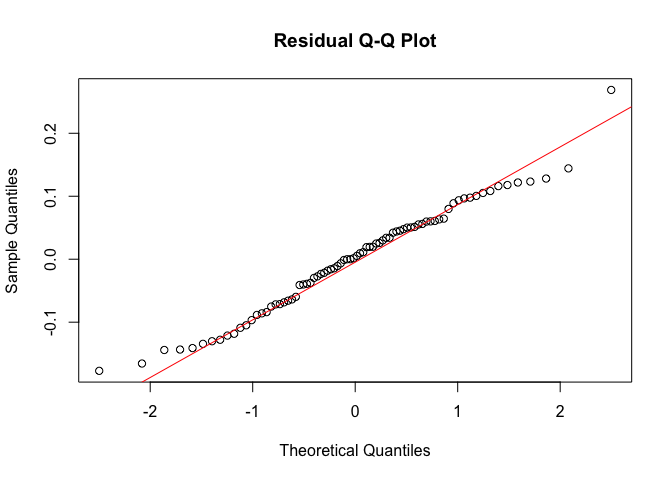
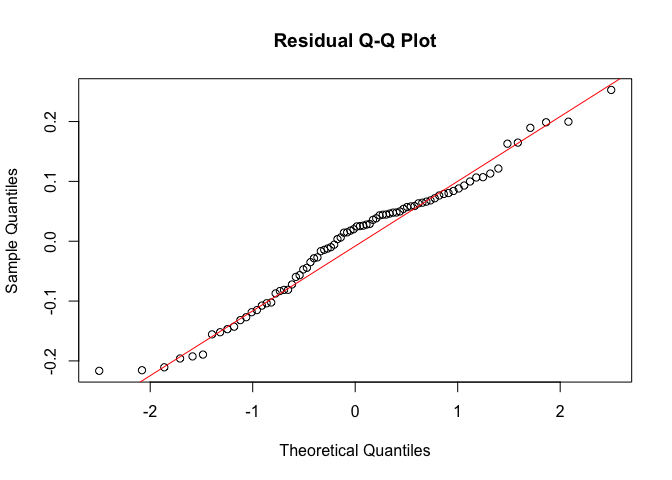
fix the equation formatting

diff --git a/01-plan/01-pre-registration/03-analysis-plan.md b/01-plan/01-pre-registration/03-analysis-plan.md
@@ -42,9 +42,13 @@ Based on this experimental design, we will use the following linear
 model to analyse this experiment:
 
 $$
+\begin{aligned}
 log(L_{i}) = \alpha + \beta_1\text{N}_{i} + \beta_2\text{M}_{i} + \beta_3\text{N}_{i}\text{M}_{i} + \epsilon_{i}
+\end{aligned}
 $$ $$
+\begin{aligned}
 \epsilon_{i} \sim Normal(0, \sigma_{residual})
+\end{aligned}
 $$ Based on this model, we can set-up the statistical hypotheses as
 follows:
 
@@ -118,12 +122,12 @@ head(dat_e1)
     # A tibble: 6 × 5
           N     M     L N_trans L_log
       <dbl> <dbl> <dbl>   <dbl> <dbl>
-    1  1.39     0  4.18       0  1.43
-    2  1.39     0  4.67       0  1.54
-    3  1.39     0  4.47       0  1.50
-    4  1.39     0  4.55       0  1.52
-    5  1.39     0  4.52       0  1.51
-    6  1.39     0  4.38       0  1.48
+    1  1.39     0  4.62       0  1.53
+    2  1.39     0  4.92       0  1.59
+    3  1.39     0  3.67       0  1.30
+    4  1.39     0  4.91       0  1.59
+    5  1.39     0  4.56       0  1.52
+    6  1.39     0  4.74       0  1.56
 
 Now we are ready to fit the model:
 
@@ -180,21 +184,21 @@ summary(lm_e1)
     lm(formula = L_log ~ M + N_trans + M:N_trans, data = dat_e1)
 
     Residuals:
-          Min        1Q    Median        3Q       Max 
-    -0.177269 -0.066524  0.003349  0.056957  0.268788 
+         Min       1Q   Median       3Q      Max 
+    -0.21661 -0.08118  0.02234  0.06484  0.25279 
 
     Coefficients:
                 Estimate Std. Error t value Pr(>|t|)    
-    (Intercept)  1.51533    0.02404  63.034  < 2e-16 ***
-    M           -0.16333    0.03400  -4.804 7.64e-06 ***
-    N_trans      0.19669    0.01416  13.891  < 2e-16 ***
-    M:N_trans   -0.06654    0.02002  -3.323  0.00137 ** 
+    (Intercept)  1.51180    0.02935  51.516  < 2e-16 ***
+    M           -0.16401    0.04150  -3.952 0.000172 ***
+    N_trans      0.21225    0.01728  12.280  < 2e-16 ***
+    M:N_trans   -0.09241    0.02444  -3.781 0.000309 ***
     ---
     Signif. codes:  0 '***' 0.001 '**' 0.01 '*' 0.05 '.' 0.1 ' ' 1
 
-    Residual standard error: 0.08778 on 76 degrees of freedom
-    Multiple R-squared:  0.8547,    Adjusted R-squared:  0.8489 
-    F-statistic:   149 on 3 and 76 DF,  p-value: < 2.2e-16
+    Residual standard error: 0.1072 on 76 degrees of freedom
+    Multiple R-squared:  0.8205,    Adjusted R-squared:  0.8135 
+    F-statistic: 115.8 on 3 and 76 DF,  p-value: < 2.2e-16
 
 In this output, the $\beta_3$ parameter is the “M:N_trans” parameter.
 This output indicates that $\beta_3$ is significantly less than zero
@@ -414,12 +418,12 @@ head(dat_e2)
     # A tibble: 6 × 5
           N     M     I N_trans I_log
       <dbl> <dbl> <dbl>   <dbl> <dbl>
-    1  1.39     0  4.35       0  1.47
-    2  1.39     0  4.36       0  1.47
-    3  1.39     0  4.44       0  1.49
-    4  1.39     0  4.42       0  1.49
-    5  1.39     0  4.56       0  1.52
-    6  1.39     0  5.02       0  1.61
+    1  1.39     0  5.95       0  1.78
+    2  1.39     0  4.27       0  1.45
+    3  1.39     0  4.19       0  1.43
+    4  1.39     0  4.64       0  1.54
+    5  1.39     0  4.53       0  1.51
+    6  1.39     0  5.47       0  1.70
 
 Next, we fit the model.
 
@@ -472,20 +476,20 @@ summary(lm_e2)
 
     Residuals:
          Min       1Q   Median       3Q      Max 
-    -0.20613 -0.07234  0.00537  0.05617  0.25301 
+    -0.27198 -0.07256 -0.01714  0.08144  0.29805 
 
     Coefficients:
                 Estimate Std. Error t value Pr(>|t|)    
-    (Intercept)  1.48083    0.02805  52.789   <2e-16 ***
-    M           -0.06429    0.03967  -1.621   0.1093    
-    N_trans      0.21677    0.01652  13.120   <2e-16 ***
-    M:N_trans   -0.04280    0.02337  -1.832   0.0709 .  
+    (Intercept)  1.51041    0.03190  47.349  < 2e-16 ***
+    M           -0.13501    0.04511  -2.993  0.00373 ** 
+    N_trans      0.17065    0.01879   9.083 9.26e-14 ***
+    M:N_trans    0.02102    0.02657   0.791  0.43129    
     ---
     Signif. codes:  0 '***' 0.001 '**' 0.01 '*' 0.05 '.' 0.1 ' ' 1
 
-    Residual standard error: 0.1024 on 76 degrees of freedom
-    Multiple R-squared:  0.8042,    Adjusted R-squared:  0.7965 
-    F-statistic:   104 on 3 and 76 DF,  p-value: < 2.2e-16
+    Residual standard error: 0.1165 on 76 degrees of freedom
+    Multiple R-squared:  0.7277,    Adjusted R-squared:  0.717 
+    F-statistic:  67.7 on 3 and 76 DF,  p-value: < 2.2e-16
 
 The $\beta_3$ parameter is the “M:N_trans” parameter. This output
 indicates that $\beta_3$ is not significantly less than zero
@@ -675,12 +679,12 @@ head(dat_e3)
     # A tibble: 6 × 6
           N     M     I     L N_trans L_log
       <dbl> <dbl> <dbl> <dbl>   <dbl> <dbl>
-    1  1.39     0     0  5.57       0  1.72
-    2  1.39     0     0  5.32       0  1.67
-    3  1.39     0     0  5.43       0  1.69
-    4  1.39     0     0  5.20       0  1.65
-    5  1.39     0     0  5.10       0  1.63
-    6  1.39     0     0  5.20       0  1.65
+    1  1.39     0     0  5.47       0  1.70
+    2  1.39     0     0  4.74       0  1.56
+    3  1.39     0     0  5.33       0  1.67
+    4  1.39     0     0  5.14       0  1.64
+    5  1.39     0     0  5.31       0  1.67
+    6  1.39     0     0  5.45       0  1.69
 
 ``` r
 # fit the statistical model
@@ -726,24 +730,24 @@ summary(lm_e3)
 
     Residuals:
           Min        1Q    Median        3Q       Max 
-    -0.152876 -0.032009  0.001697  0.028479  0.129220 
+    -0.117347 -0.028253 -0.001368  0.030753  0.133403 
 
     Coefficients:
                  Estimate Std. Error t value Pr(>|t|)    
-    (Intercept)  1.501000   0.023400  64.145  < 2e-16 ***
-    N            0.101675   0.007957  12.778  < 2e-16 ***
-    M           -0.258219   0.033093  -7.803 9.05e-13 ***
-    I           -0.072088   0.033093  -2.178   0.0309 *  
-    N:M         -0.049908   0.011253  -4.435 1.76e-05 ***
-    M:I         -0.003968   0.046800  -0.085   0.9326    
-    N:I         -0.010446   0.011253  -0.928   0.3548    
-    N:M:I       -0.094630   0.015914  -5.946 1.81e-08 ***
+    (Intercept)  1.531698   0.022295  68.700  < 2e-16 ***
+    N            0.090631   0.007581  11.954  < 2e-16 ***
+    M           -0.276688   0.031530  -8.775 3.26e-15 ***
+    I           -0.138612   0.031530  -4.396 2.06e-05 ***
+    N:M         -0.040454   0.010722  -3.773 0.000231 ***
+    M:I          0.053797   0.044591   1.206 0.229511    
+    N:I          0.010245   0.010722   0.956 0.340825    
+    N:M:I       -0.113451   0.015163  -7.482 5.47e-12 ***
     ---
     Signif. codes:  0 '***' 0.001 '**' 0.01 '*' 0.05 '.' 0.1 ' ' 1
 
-    Residual standard error: 0.04933 on 152 degrees of freedom
-    Multiple R-squared:  0.976, Adjusted R-squared:  0.9749 
-    F-statistic:   884 on 7 and 152 DF,  p-value: < 2.2e-16
+    Residual standard error: 0.047 on 152 degrees of freedom
+    Multiple R-squared:  0.9777,    Adjusted R-squared:  0.9766 
+    F-statistic:   950 on 7 and 152 DF,  p-value: < 2.2e-16
 
 The $\beta_7$ parameter is the “N:M:I” parameter. This output indicates
 that $\beta_7$ is significantly less than zero ()
@@ -830,19 +834,19 @@ summary(comp_e3_boot)
 ```
 
      bootstrap_i              N               M         without_I    
-     Length:9960        Min.   :1.386   Min.   :0.0   Min.   :3.549  
-     Class :character   1st Qu.:2.079   1st Qu.:0.0   1st Qu.:4.076  
-     Mode  :character   Median :2.773   Median :0.5   Median :4.731  
-                        Mean   :2.773   Mean   :0.5   Mean   :4.998  
-                        3rd Qu.:3.466   3rd Qu.:1.0   3rd Qu.:5.849  
-                        Max.   :4.159   Max.   :1.0   Max.   :7.297  
+     Length:9910        Min.   :1.386   Min.   :0.0   Min.   :3.602  
+     Class :character   1st Qu.:2.079   1st Qu.:0.0   1st Qu.:4.065  
+     Mode  :character   Median :2.773   Median :0.5   Median :4.646  
+                        Mean   :2.773   Mean   :0.5   Mean   :5.008  
+                        3rd Qu.:3.466   3rd Qu.:1.0   3rd Qu.:5.978  
+                        Max.   :4.159   Max.   :1.0   Max.   :6.995  
          with_I       competition    
-     Min.   :2.367   Min.   :0.5272  
-     1st Qu.:2.801   1st Qu.:0.6928  
-     Median :3.874   Median :0.8266  
-     Mean   :4.090   Mean   :0.8002  
-     3rd Qu.:5.304   3rd Qu.:0.9056  
-     Max.   :6.874   Max.   :1.0323  
+     Min.   :2.375   Min.   :0.5553  
+     1st Qu.:2.769   1st Qu.:0.6804  
+     Median :3.718   Median :0.8075  
+     Mean   :4.077   Mean   :0.7958  
+     3rd Qu.:5.164   3rd Qu.:0.8998  
+     Max.   :6.680   Max.   :1.0371  
 
 ``` r
 # summarise these bootstrapped samples
